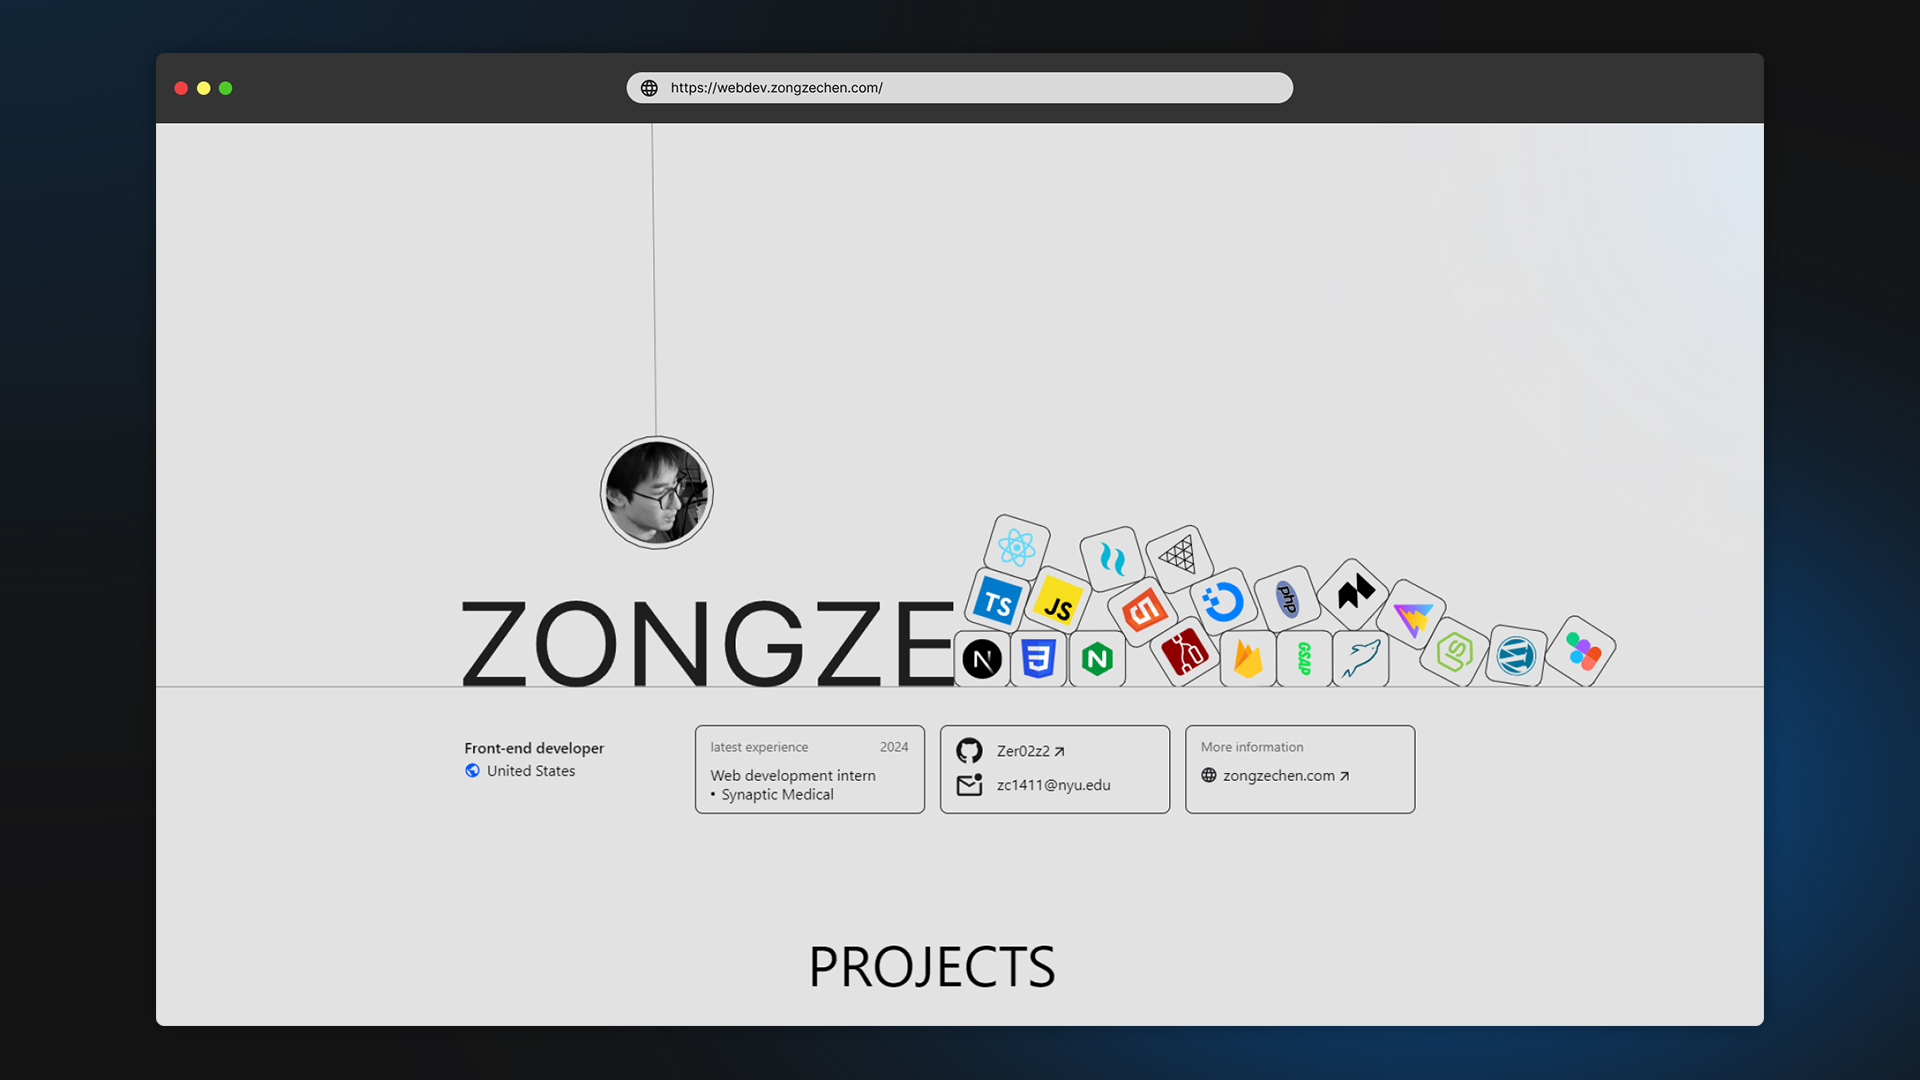
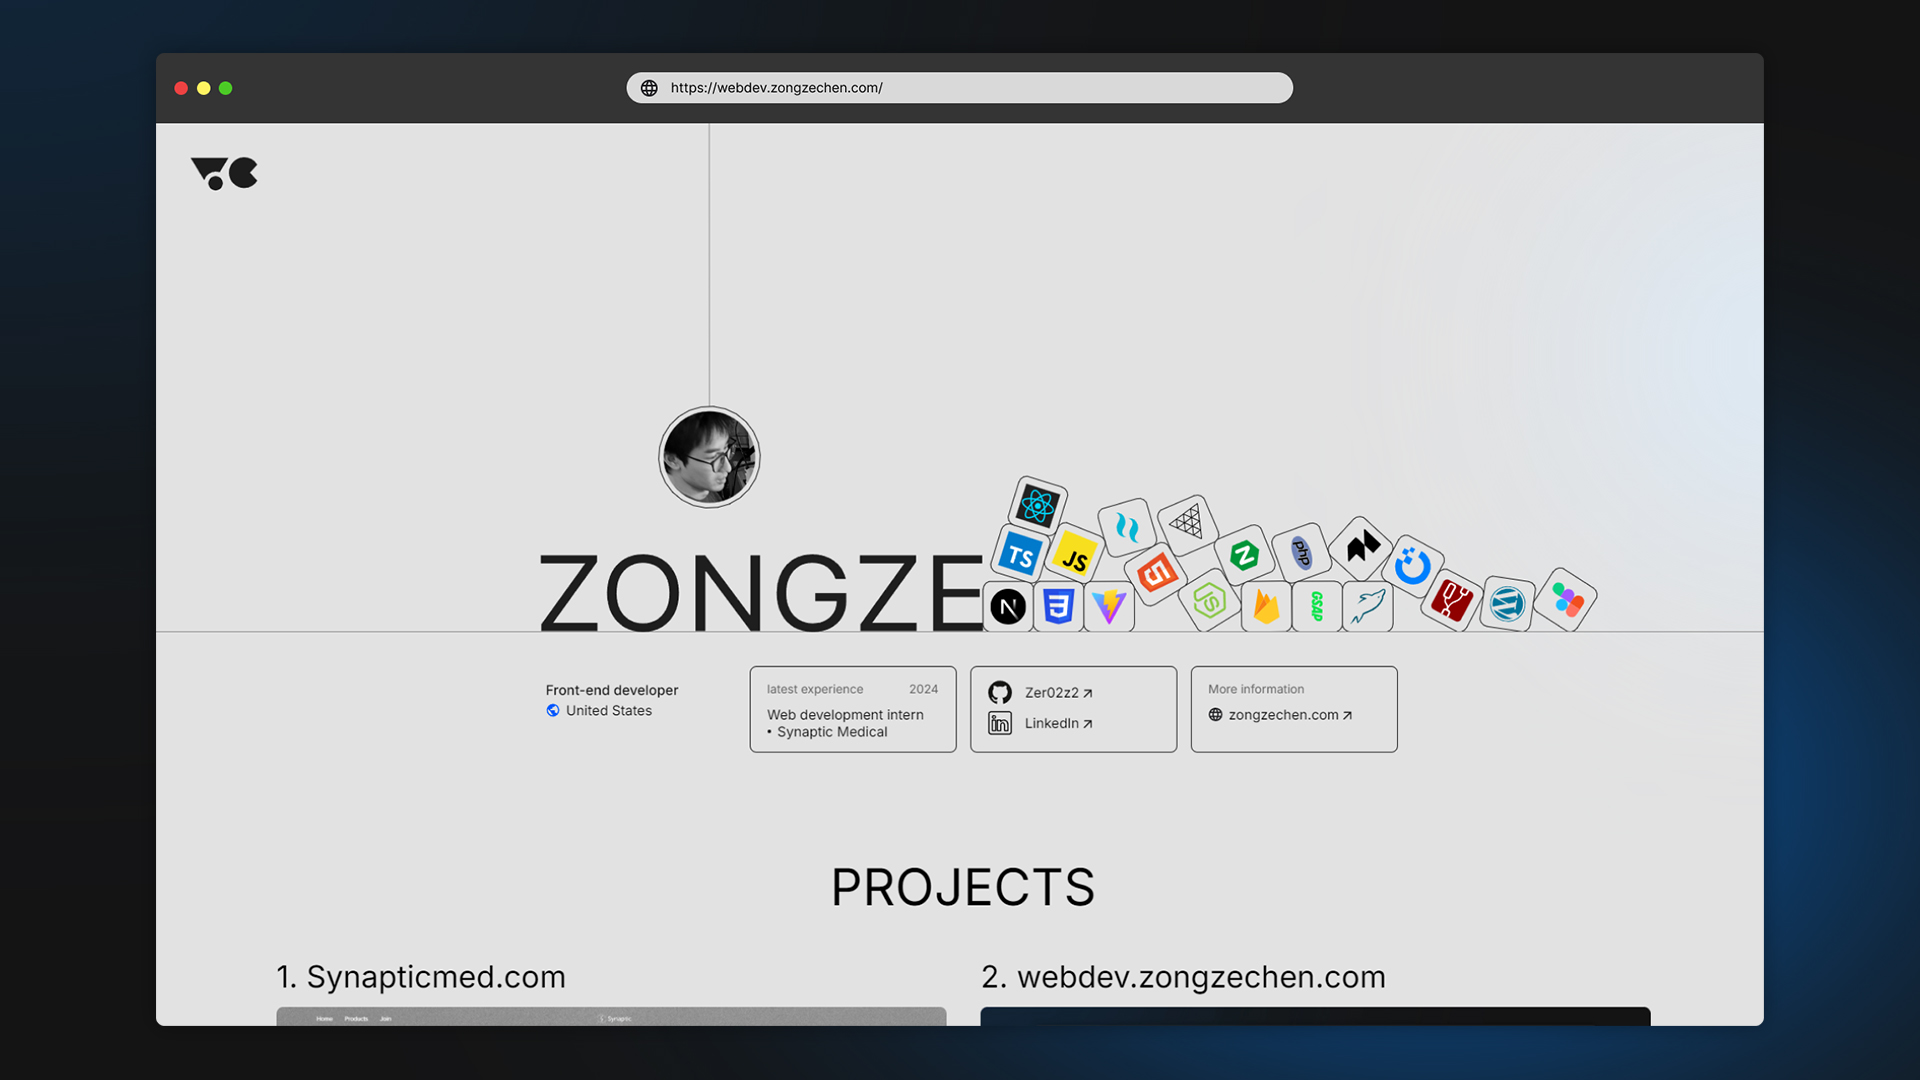
Webdev init

Changed region(s): [[0.2188, 0.3667, 0.8438, 0.7639], [0.125, 0.7944, 0.875, 0.9472], [0.0938, 0.1222, 0.1562, 0.1833]]

diff --git a/app/web-dev/page.tsx b/app/web-dev/page.tsx
@@ -1,0 +1,17 @@
+import { BigText } from "../_components/projects/bigText"
+import { Hero } from "../_components/projects/hero"
+import { webDevMeta } from "../projectMeta"
+
+export default function Page() {
+  return (
+    <div>
+      <Hero projectMeta={webDevMeta} />
+      <BigText skills={[...webDevMeta.tech, "matter-js", "figma"]}>
+        I made this website as the project itself to test out Next.js. It is
+        100% code-based and original in design, built from the ground up. One of
+        the experiments I did was to mix canvas with HTML elements and sync them
+        on viewport resizing.
+      </BigText>
+    </div>
+  )
+}
